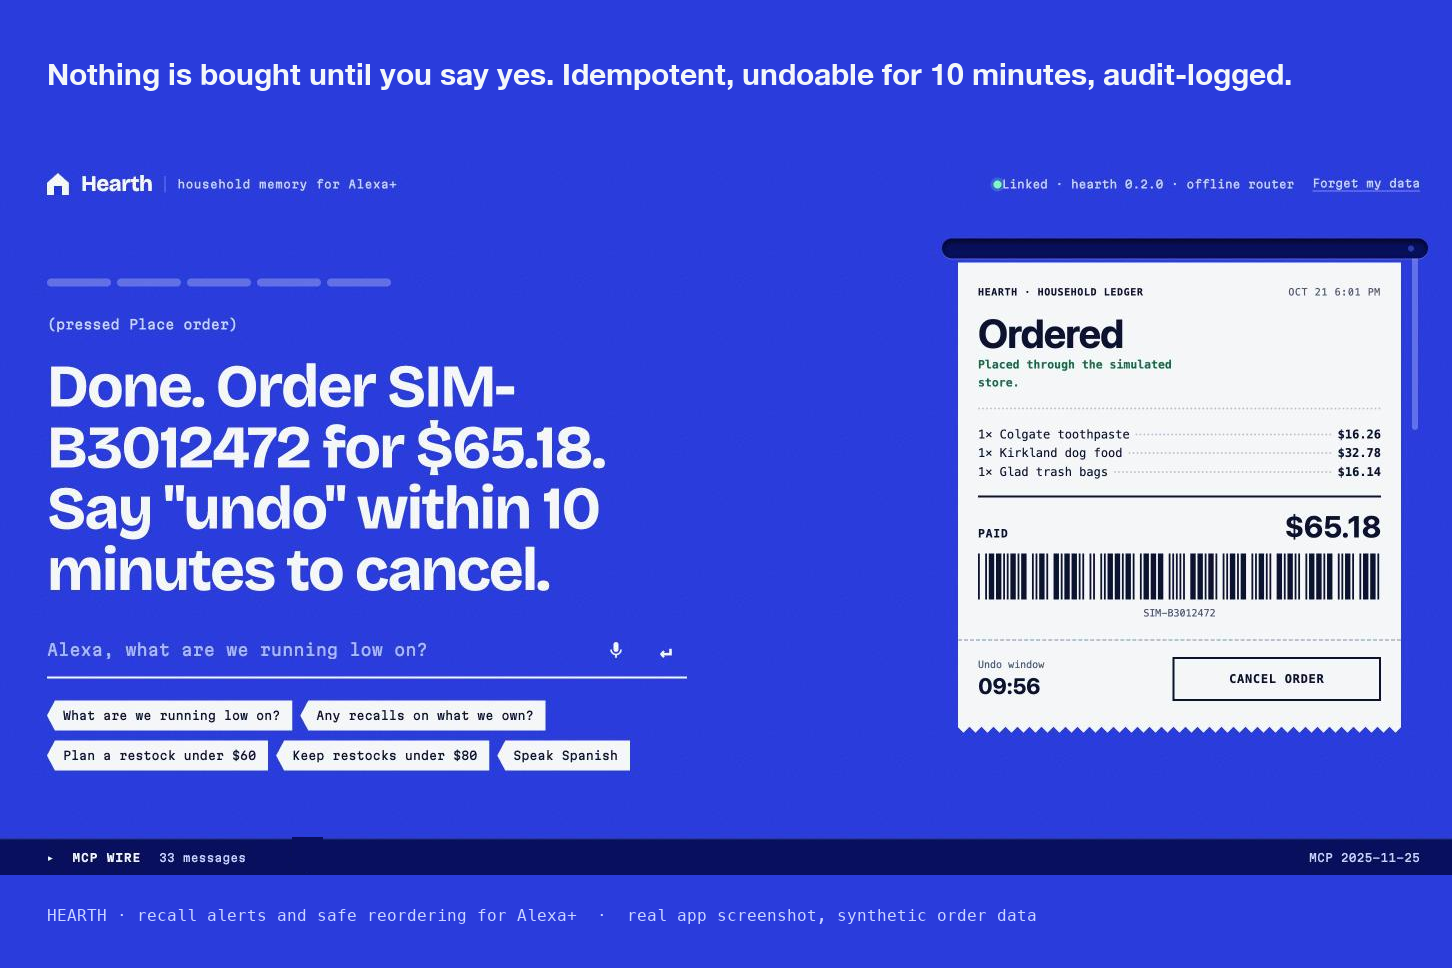
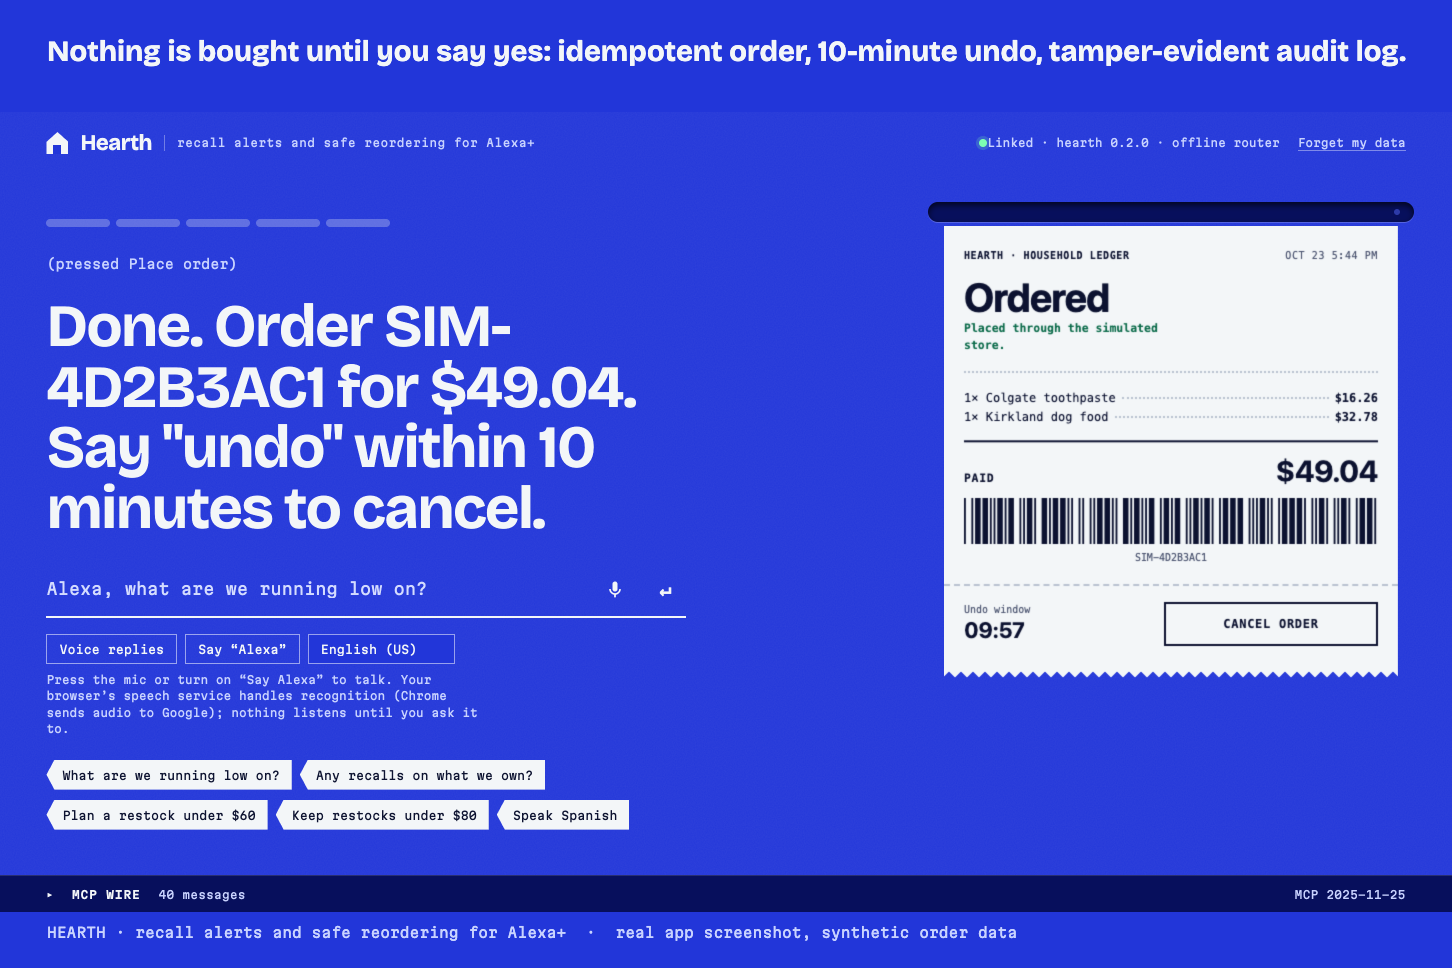
Retake gallery images with the current tagline; add npm run gallery to regenerate them; measured slide now reads real counts

diff --git a/docs/gallery/README.md b/docs/gallery/README.md
@@ -1,3 +1,11 @@
-Images uploaded to the Devpost gallery. They are real screenshots of the running app (synthetic order data), padded to an exact
-3:2 canvas with the app's own cobalt; `5-measured.png` is a slide built from the numbers in [../SCALE.md](../SCALE.md).
-`thumbnail.png` is the pushed-alert shot. Regenerate the app shots by running the demo (see [../DEMO-SCRIPT.md](../DEMO-SCRIPT.md)).
+# Gallery images
+
+The images uploaded to the Devpost gallery and used in the README. They are real screenshots of the running app (synthetic order data,
+real recall notices), framed on an exact 3:2 canvas in the app's own cobalt with a caption. `5-measured.png` is a slide whose numbers come
+from [../SCALE.md](../SCALE.md), `npm run eval`, and the test and finding counts read from the repo. `thumbnail.png` is the pushed-alert shot.
+
+Regenerate all of them (needs Google Chrome; starts a throwaway server and drives the real simulator in headless Chrome):
+
+```bash
+npm run gallery
+```
